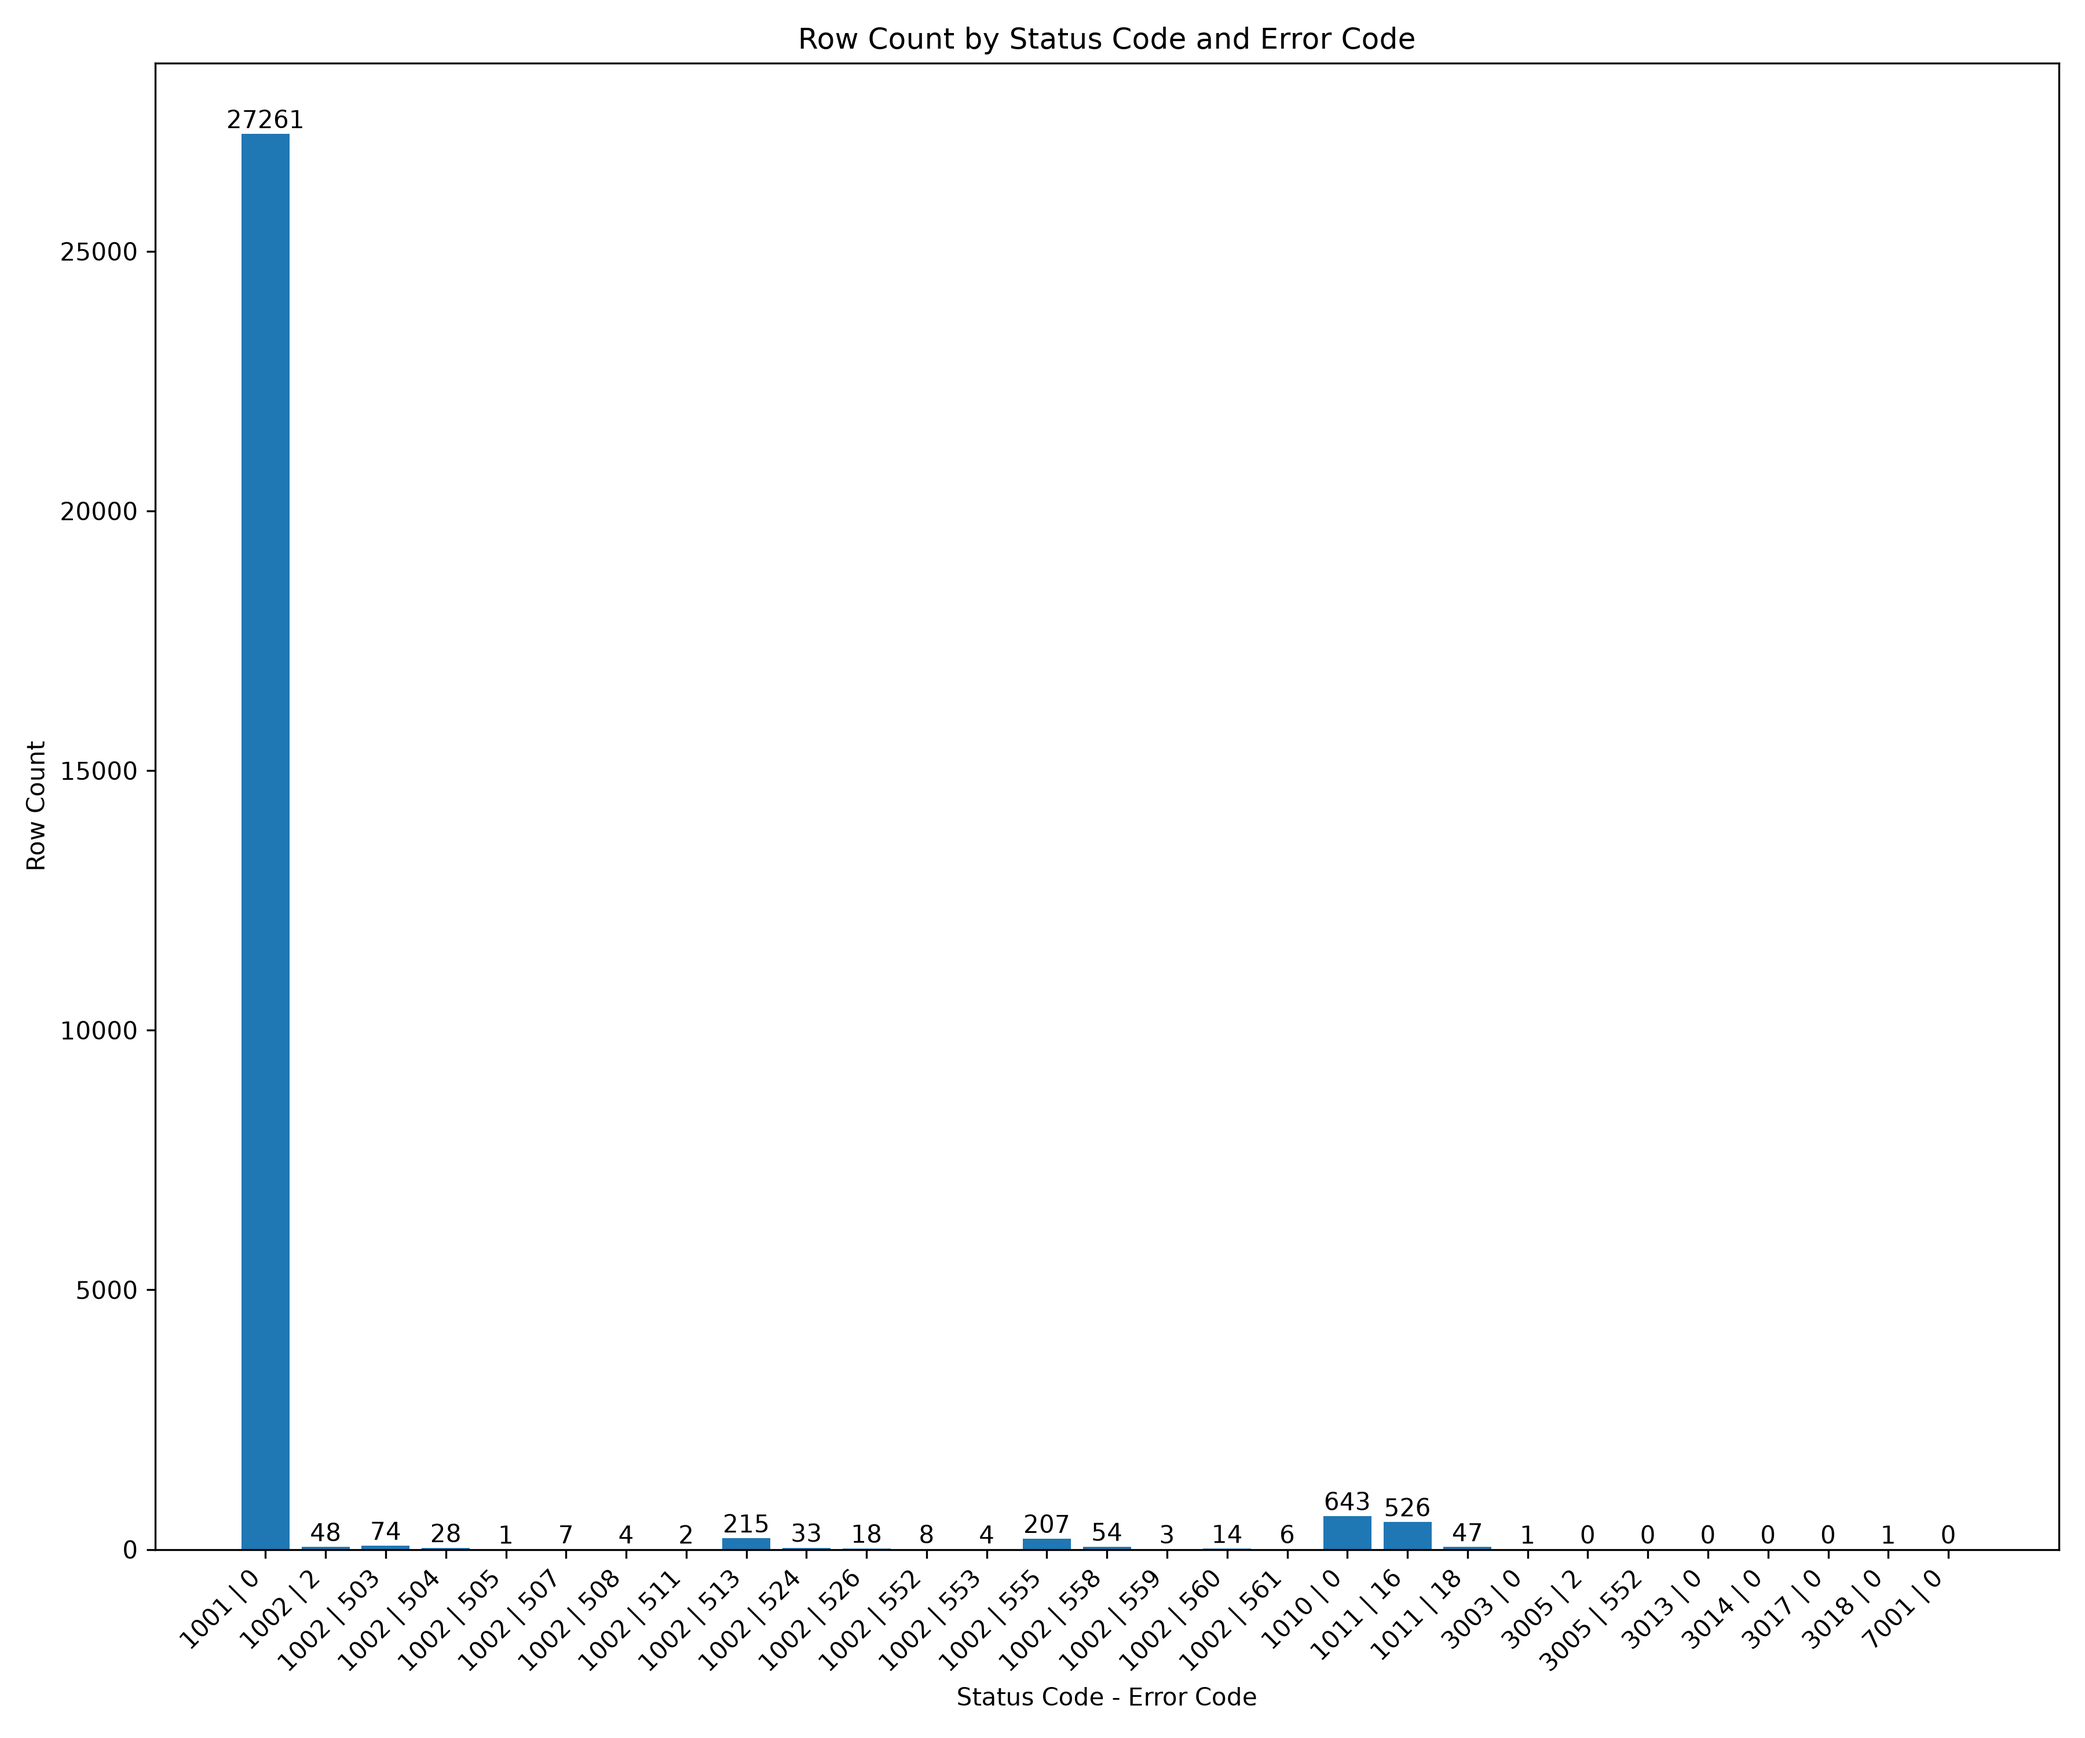
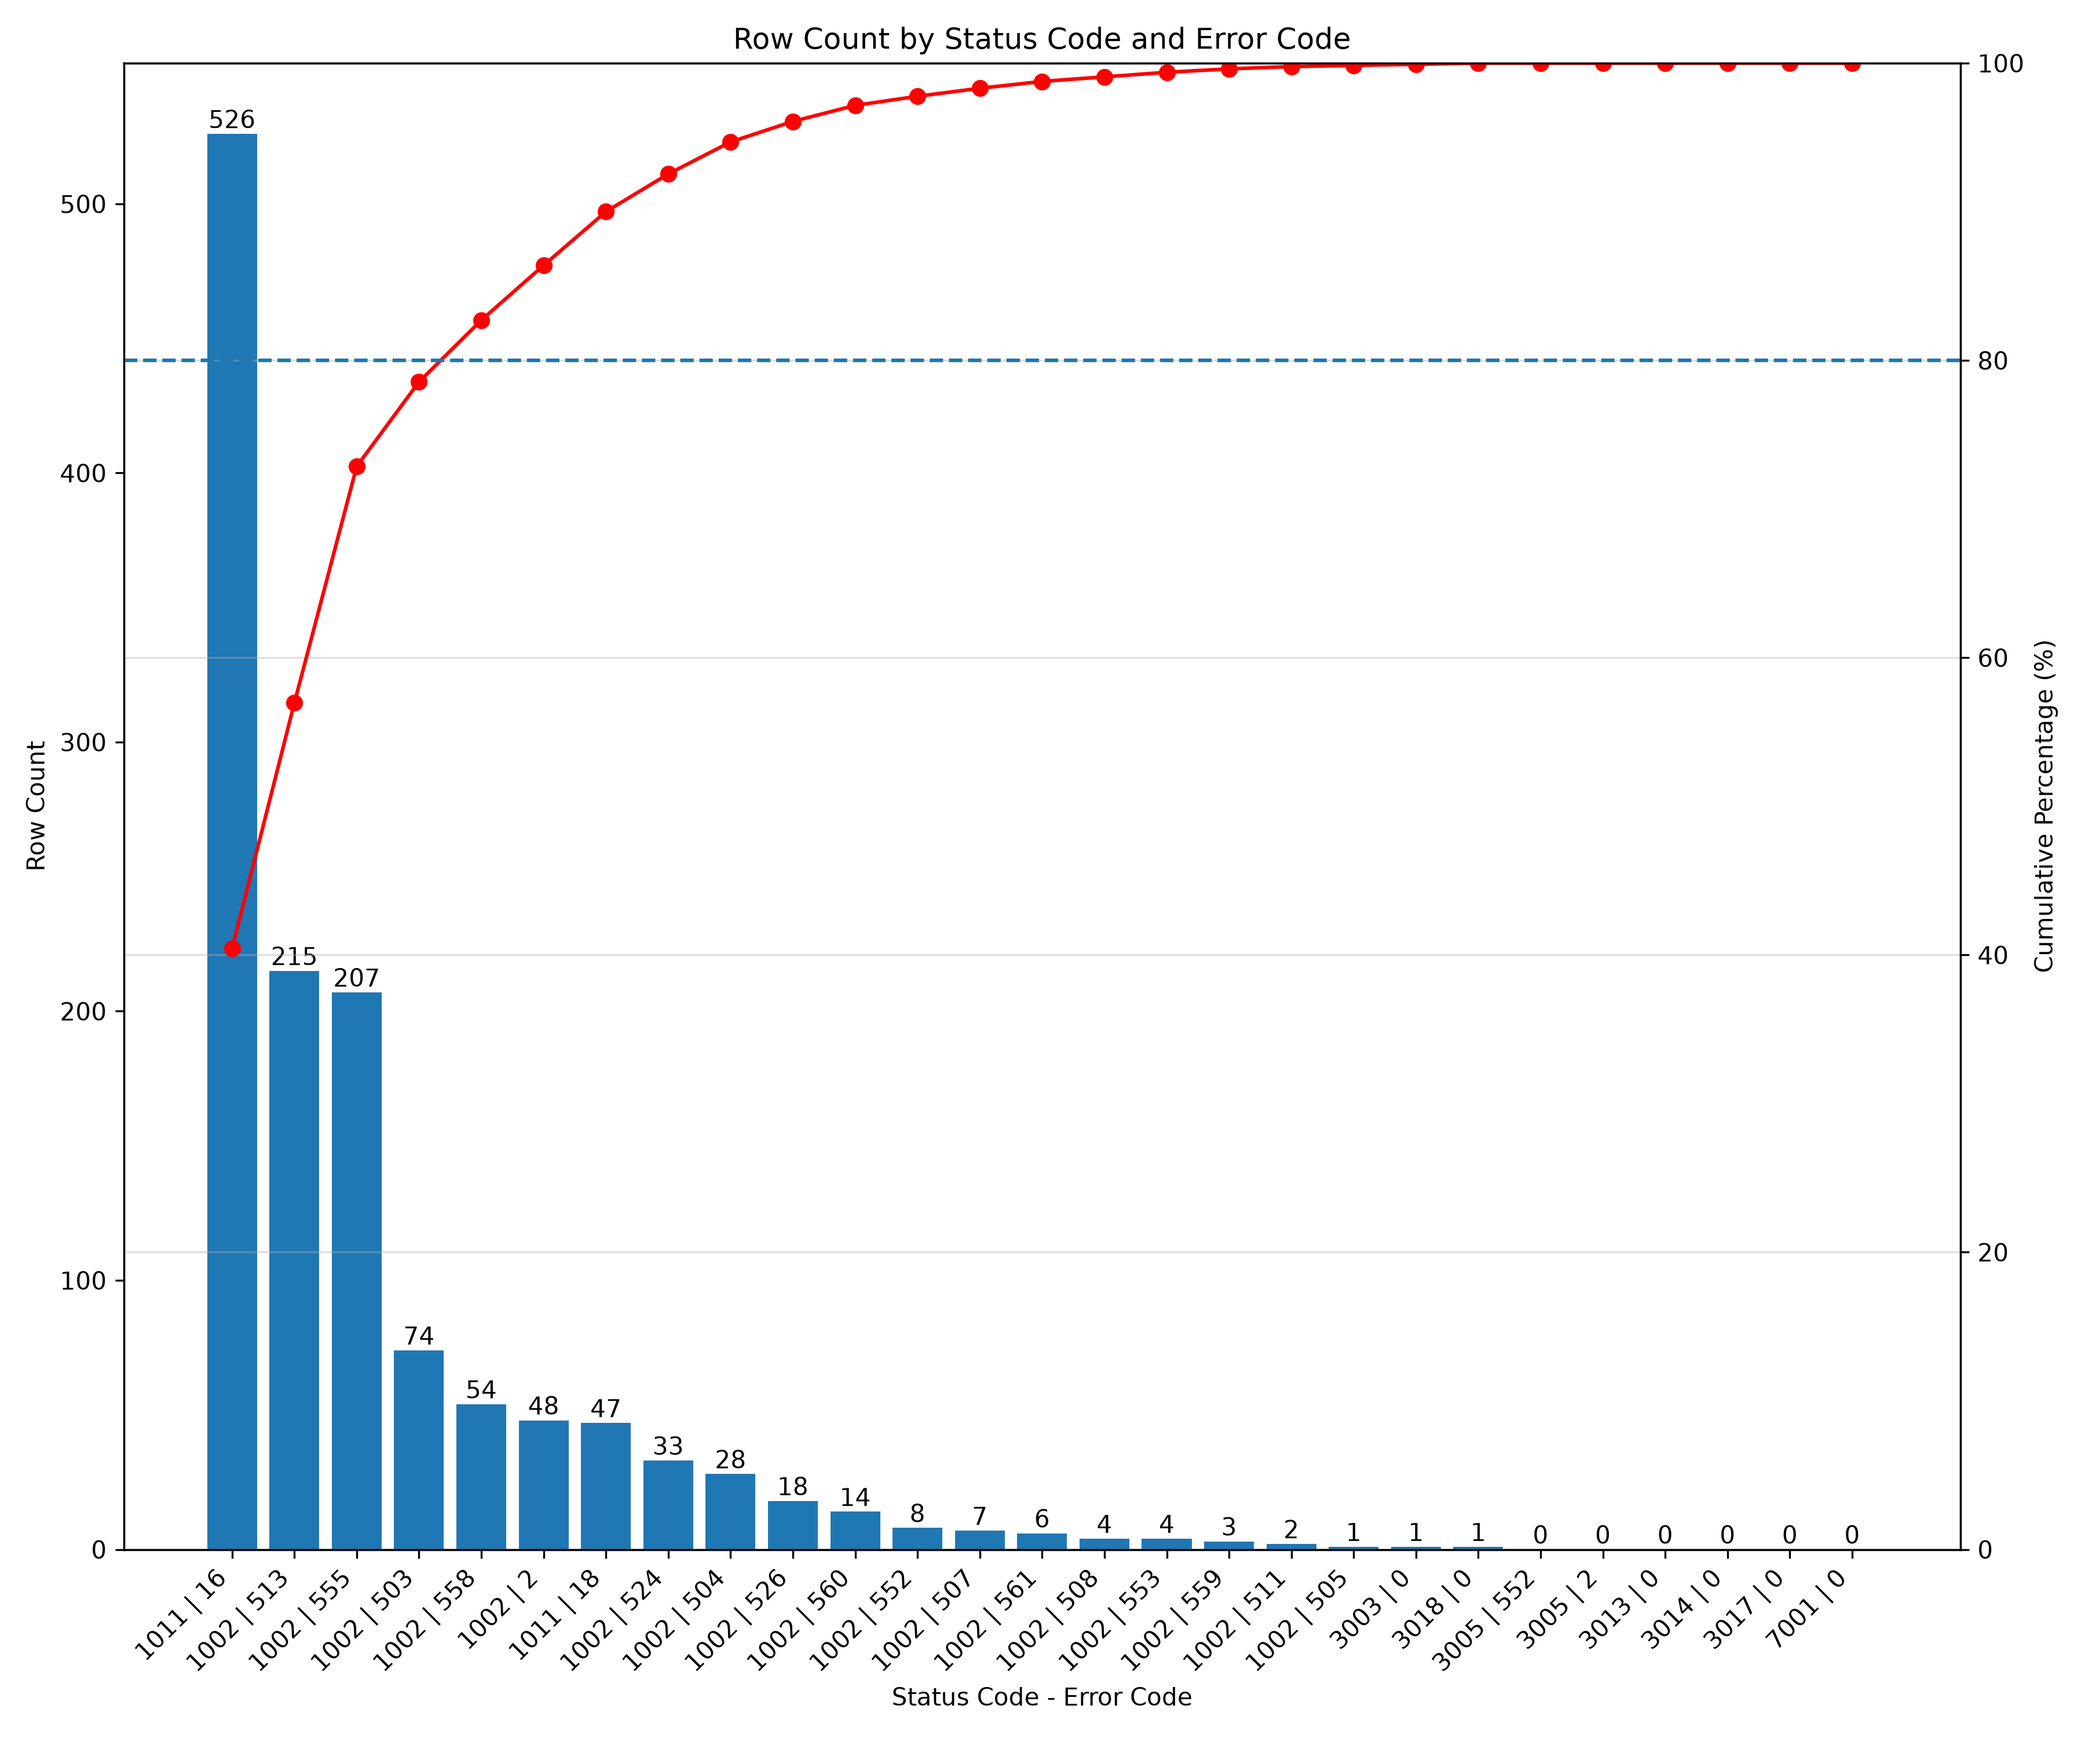
add Pareto chart for status and error codes

diff --git a/turbo-energy/find-all-error-codes-row-count/main.py b/turbo-energy/find-all-error-codes-row-count/main.py
@@ -718,15 +718,30 @@ def main():
 
     result_df = pd.DataFrame(allStatusCodeAndErrorCodeRowCOunt)
 
-    print(result_df.to_string())
+    result_df = result_df[
+        ~(
+            ((result_df["statusCode"] == 1001) & (result_df["errorCode"] == 0))
+            | ((result_df["statusCode"] == 1010) & (result_df["errorCode"] == 0))
+        )
+    ]
 
-    plt.figure(figsize=(12, 10))
+    result_df = result_df.sort_values("rowCount", ascending=False).reset_index(
+        drop=True
+    )
+
+    result_df["cumulativePercentage"] = (
+        result_df["rowCount"].cumsum() / result_df["rowCount"].sum() * 100
+    )
 
     labels = (
         result_df["statusCode"].astype(str) + " | " + result_df["errorCode"].astype(str)
     )
 
-    bars = plt.bar(labels, result_df["rowCount"])
+    print(result_df["cumulativePercentage"])
+
+    plt.figure(figsize=(12, 10))
+
+    plt.bar(labels, result_df["rowCount"])
 
     for i, value in enumerate(result_df["rowCount"]):
         plt.text(i, value, str(value), ha="center", va="bottom")
@@ -734,12 +749,17 @@ def main():
     plt.xlabel("Status Code - Error Code")
     plt.xticks(rotation=45, ha="right")
     plt.ylabel("Row Count")
+
+    ax2 = plt.gca().twinx()
+    ax2.plot(labels, result_df["cumulativePercentage"], marker="o", color="red")
+    ax2.set_ylabel("Cumulative Percentage (%)")
+    ax2.set_ylim(0, 100)
+    ax2.axhline(y=80, linestyle="--")
+
+    plt.grid(True, axis="both", alpha=0.4)
     plt.title("Row Count by Status Code and Error Code")
-
     plt.tight_layout()
-
     plt.savefig("./status_dok_row_count.png", dpi=300)
-
     plt.show()
 
 
